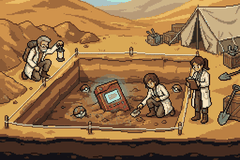
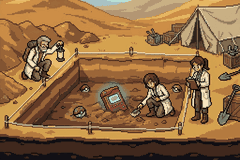
feat: update cinematics

diff --git a/src/cinematic.c b/src/cinematic.c
@@ -224,7 +224,7 @@ static const u8 sText_P2_03a[] = _("Los descendientes de aquellos soldados\nque 
 static const u8 sText_P2_03b[] = _("recuperaron vestigios de aquella\nantigua tecnología militar…");
 static const u8 sText_P2_04a[] = _("y con ella reconstruyeron\nun nuevo y feliz mundo POKéMON…");
 static const u8 sText_P2_04b[] = _("aunque tal vez aquella gran guerra\nnunca terminó del todo…");
-static const u8 sText_P2_05a[] = _("Pero eso son solo conspiraciones…\nque nadie cree ni puede demostrar…");
+static const u8 sText_P2_05a[] = _("Pero eso son solo historias\nque nadie cree ni puede demostrar…");
 static const u8 sText_P2_05b[] = _("En fin… ya casi es la hora\n¡debo darme prisa!…");
 
 static const u8 *const sTexts_P2_01[] = { sText_P2_01a, sText_P2_01b, NULL };
